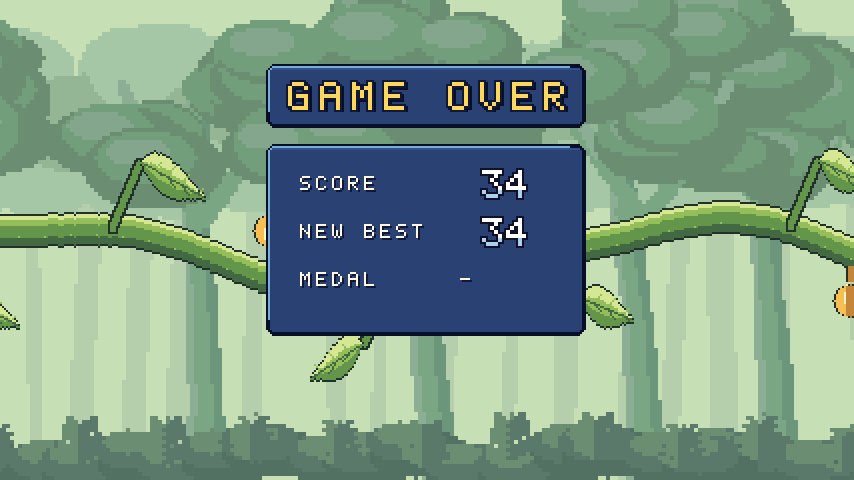
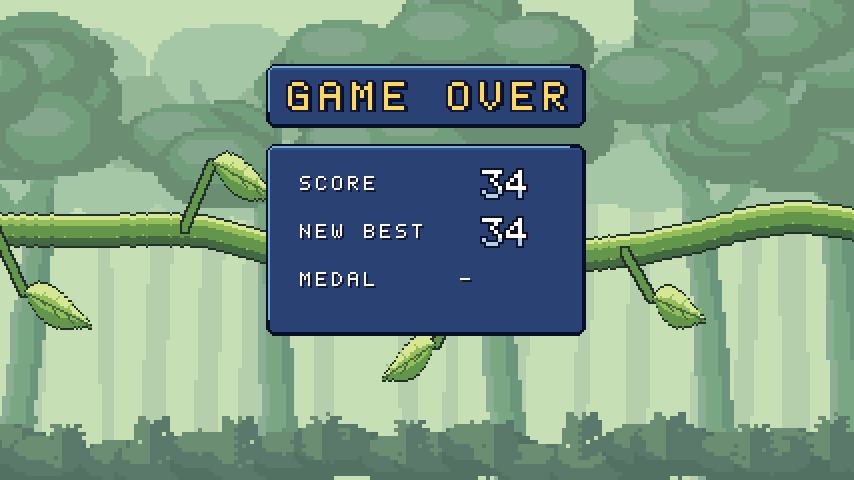
Wide view 1/3 left: snailswitch
The owner's decision: in widescreen the snails sat too far left before a long empty
stretch. A third of the extra width (past 320 columns) is now shown behind them, two
thirds ahead: the stage origin is WIDE_LEFT(width - 320) (game.h: 36 at 427, 67 at 520,
80 at 560, 0 at 320), so the snails race that much further right; the UI stays centred
(hu_ui_x follows the origin).
- The vine behind them is drawn: the foreground canvas starts at the screen's real left
  edge (its camera the scroll less the origin): the passed leaves, hazards and fruits,
  and the vine behind the starting line on the title; the misty forest follows.
- The world, the course, the physics, the scoring and the start distance are unchanged:
  the logs at 320, 427 and 520 are identical to before; 320 is byte-identical (300
  dense pictures, 4 logs and the 320 UI screens compared).
- tests/test_scenery.c: the third (36, 67, 80 px) and no empty column behind the start;
  tests/wide_test.sh: the view check (--opt view=1) asserts the third on the left, the
  snails' screen x (that of 320 plus the third) and the next hazard's distance on the
  screen (that of 320) at 427, 520 and 560, on the title, at the start, in a run and
  with 4 snails.
- Screenshots at 427 and 520 re-rendered; DESIGN.md says so.

diff --git a/games/snailswitch/src/draw.c b/games/snailswitch/src/draw.c
@@ -29,6 +29,8 @@ void draw_init(void){
  hu_config cfg=hu_defaults();cfg.obj_tile=KIT_OBJ_TILE;cfg.obj_vram=VR_OBJ;cfg.obj_pal=3;hu_init(&cfg);
  rs_tiles_load(VR_BG3,gm_bg3_tiles,gm_bg3_tile_count);
  rs_pal_load(RS_PAL_BG(PAL_HILLS),gm_hills_pal,16);
+ /* widescreen: a third of the extra width behind the snails (game.h WIDE_LEFT): the stage origin; 0 at 320 */
+ rs_screen_origin(WIDE_LEFT(rs_screen_width()-RS_SCREEN_W));
  maps_setup();
  static const rs_color pal[16]={0,RS_HEX(0x23352f),RS_HEX(0x466947),RS_HEX(0x619248),
  RS_HEX(0x94bd59),RS_HEX(0xd5e594),RS_HEX(0x573343),RS_HEX(0xa65162),RS_HEX(0xe88189),
@@ -53,7 +55,7 @@ static void line(const canvas*p,int x0,int y0,int x1,int y1,int r,int c){
  int n=abs(x1-x0)>abs(y1-y0)?abs(x1-x0):abs(y1-y0);if(!n)n=1;
  for(int i=0;i<=n;i++)rect(p,x0+(x1-x0)*i/n-r,y0+(y1-y0)*i/n-r,x0+(x1-x0)*i/n+r,y0+(y1-y0)*i/n+r,c);}
 /* Widescreen (DESIGN.md "Widescreen"): the foreground is world content, drawn up to the canvas' right edge (cw
- * columns: the real screen's); the leaves and the hazards are culled against it, so a wider screen simply shows more
+ * columns: the real screen's; draw.c gives it a camera from the screen's real left edge); the leaves and the hazards are culled against it, so a wider screen simply shows more
  * of the same vine. At 320 it is the 4:3 picture, pixel for pixel. */
 void scenery_pixels(const world*w,uint8_t*out,int cw){
  canvas cv={out,cw},*px=&cv;
@@ -138,9 +140,12 @@ void scenery_pixels(const world*w,uint8_t*out,int cw){
  }
 }
 static uint8_t fg_px[RS_SCREEN_W_MAX*240];     /* scratch: redrawn in full each frame (state_audit.txt) */
+/* The foreground is drawn for the screen's columns from its real left edge: the canvas' column 0 is stage x
+ * rs_screen_left() (widescreen: a third of the extra width behind the snails; 0 at 320), the camera scroll + that. */
 static void foreground(const world*w){
  int cols=(rs_screen_width()+7)/8,pw=cols*8;   /* the screen's tile columns: 40 at 4:3, 54 at 427, 65 at 520 */
- scenery_pixels(w,fg_px,pw);
+ world cam=*w;cam.scroll+=rs_screen_left();
+ scenery_pixels(&cam,fg_px,pw);
  int next=1;uint8_t empty[64]={0};rs_tiles_load8(VR_BG2,empty,1);
  for(int r=0;r<30;r++)for(int c=0;c<cols;c++){
   uint8_t tile[64];int ink=0;for(int y=0;y<8;y++)for(int x=0;x<8;x++){tile[y*8+x]=fg_px[(r*8+y)*pw+c*8+x];ink|=tile[y*8+x];}
@@ -150,6 +155,7 @@ static void foreground(const world*w){
 static int player_pal(int p){return p?hu_player_pal(p):0;}
 static void spr(int id,int x,int y,int prio,int pal){
  const gm_sprite_def*d=&gm_spr[id];rs_spr(x,y,d->tile,d->w,d->h,pal<0?d->pal:pal,prio,0);}
+static int p1_drawn_x=-999;   /* tests (draw_view_log): the screen x of P1's sprite centre, as drawn */
 static void draw_heroes(const world*w,int t,int sx,int sy){
  for(int p=0;p<w->players;p++){const hero*h=&w->h[p];if(h->state==HS_OFF)continue;
  int id=h->state==HS_HIT||h->state==HS_DOWN?SPR_HERO_HIT:h->flip?SPR_HERO_SQUASH:SPR_HERO_IDLE+(t/10)%2;
@@ -157,9 +163,11 @@ static void draw_heroes(const world*w,int t,int sx,int sy){
  int flip=h->flip?(h->flip<11?h->side:h->from):h->side;
  int cx=h->x+(h->flip?(curve_sine((22-h->flip)*512/22)*9>>15):0);
  /* The same full-size snail grips each surface; the eye stalks hang below on the underside. */
+ int n=rs_oam_next();
  rs_spr(cx-16+sx,(h->y>>16)-16+sy,d->tile,d->w,d->h,player_pal(p),2,flip?RS_SPR_VFLIP:0);
+ if(p==0)p1_drawn_x=rs_oam_next()>n?rs_oam(n)->x+16+rs_screen_origin_x():-999;
  }}
-/* the kit gives UI coordinates: + hu_ui_x() (the UI is centred on a wide screen, the stage origin is 0) */
+/* the kit gives UI coordinates: + hu_ui_x() (the UI is centred on a wide screen, whatever the stage origin) */
 static void slot_icon(int p,int cx,int cy,int t,void*u){(void)t;(void)u;spr(SPR_HERO_ICON,cx-8+hu_ui_x(),cy-8,2,player_pal(p));}
 static void standing(const world*w,hu_standing*s){int a[4];for(int p=0;p<w->players;p++)a[p]=w->h[p].score;hu_rank(s,w->players,a,a);}
 static void screen_text(const world *w, int state, int st_t, int best, int new_best, const hu_standing *rs)
@@ -200,7 +208,7 @@ static void screen_text(const world *w, int state, int st_t, int best, int new_b
 void draw_frame(const world*w,int state,int st_t,int best,int new_best,int paused){
  static const int medals[4]=MEDAL_SCORES;
  int sx=hu_shake_x(),sy=hu_shake_y();hu_standing rank;standing(w,&rank);
- foreground(w);rs_bg_scroll(RS_BG2,-sx,-sy);rs_bg_scroll(RS_BG3,w->scroll/4,0);
+ foreground(w);rs_bg_scroll(RS_BG2,rs_screen_origin_x()-sx,-sy);   /* the canvas from the screen's left edge */rs_bg_scroll(RS_BG3,w->scroll/4,0);
  screen_text(w,state,st_t,best,new_best,&rank);
  int slide=state==ST_OVER?hu_slide_in(st_t,20,200):0;
  rs_bg_scroll(RS_BG1,-hu_ui_x(),-slide);       /* the UI centred on the screen (widescreen) */
@@ -213,6 +221,15 @@ void draw_frame(const world*w,int state,int st_t,int best,int new_best,int pause
  if(w->players==1)hu_gameover_sprites(1,w->h[0].score,0,best,hu_medal_of(w->h[0].score,medals),st_t,slide);
  else{hu_results_sprites(&rank,st_t,slide);for(int i=0;i<rank.n;i++){int x,y;hu_results_icon_pos(&rank,i,&x,&y);spr(SPR_HERO_ICON,x-8+hu_ui_x(),y-8+slide,3,player_pal(rank.order[i]));}}
  }}
+/* Tests (--opt view=1, main.c at exit): the view of the last frame, "view: width=W left=L p1_x=X next_x=N": L the columns
+ * shown behind the snails (the stage origin), X the screen x of P1's sprite centre as drawn, N the screen x of the next
+ * hazard ahead of P1 (its anchor; tests/wide_test.sh: X and N - X against 320) */
+void draw_view_log(const world*w){
+ int hx=w->scroll+w->h[0].x,id=0;obstacle o;
+ do obstacle_at(w,id++,&o); while(o.anchor<=hx && id<1000);
+ rs_log("view: width=%d left=%d p1_x=%d next_x=%d",rs_screen_width(),rs_screen_origin_x(),p1_drawn_x,
+        o.anchor-w->scroll+rs_screen_origin_x());
+}
 #define S(v) rs_state_var("draw." #v,&(v),sizeof(v))
 void draw_state(void){S(line_col);S(shown_state);S(shown_best);RS_STATE_RASTER(raster);}
 #undef S

diff --git a/games/snailswitch/src/game.h b/games/snailswitch/src/game.h
@@ -10,6 +10,12 @@
 #define HIT_FREEZE 8
 #define BOT_START 20
 #define MEDAL_SCORES {100,250,500,1000}
+/* Widescreen (DESIGN.md "Widescreen"): the share of the extra width (the columns past 320) shown BEHIND the snails, on
+ * the left: one third (the owner's decision), the other two thirds ahead. The stage origin is WIDE_LEFT(width - 320):
+ * 36 px at 427, 67 at 520, 80 at 560, 0 at 320 (rounded). */
+#define WIDE_LEFT_NUM 1
+#define WIDE_LEFT_DEN 3
+#define WIDE_LEFT(extra) (((extra)*WIDE_LEFT_NUM*2+WIDE_LEFT_DEN)/(2*WIDE_LEFT_DEN))
 enum hero_state {HS_READY,HS_RUN,HS_HIT,HS_DOWN,HS_OFF};
 typedef struct hero {int state,t,x,score,next_block,side,flip,from,berry,target;int32_t y,vy;int air_t,land_t;} hero;
 typedef struct world {int scroll;int64_t travel;hero h[4];int players,t,started;uint32_t seed;int events[4];} world;
@@ -33,5 +39,6 @@ void draw_init(void);
 void draw_frame(const world*,int,int,int,int,int);
 void draw_state(void);
 void draw_state_loaded(void);   /* widescreen: a state saved at another width */
+void draw_view_log(const world*);   /* tests (--opt view=1): the view at exit, "view: width= left= p1_x= next_x=" */
 #endif
 

diff --git a/games/snailswitch/tests/test_scenery.c b/games/snailswitch/tests/test_scenery.c
@@ -64,5 +64,17 @@ int main(void){
   assert(a.scroll==0&&d>=334&&d<=394);
  }
  puts("The first hazard 334..394 px ahead of the snails at the start of a run, at every width: passed");
+ /* Widescreen: a third of the extra width is shown BEHIND the snails, on the left (draw.c draws the foreground from
+  * scroll - WIDE_LEFT(width - 320), the stage origin): behind the start of a run the vine goes on, no empty column. */
+ static const int real[]={427,520,560};
+ for(int k=0;k<3;k++){
+  int cw=(real[k]+7)/8*8,left=WIDE_LEFT(real[k]-RS_SCREEN_W);
+  assert(left==(real[k]==427?36:real[k]==520?67:80));
+  for(uint32_t s=1;s<=20;s++){
+   world a;world_init(&a,1,s);a.scroll=-left;scenery_pixels(&a,after,cw);
+   for(int x=0;x<left;x++){int ink=0;for(int y=0;y<240;y++)ink|=after[y*cw+x];assert(ink);}
+  }
+ }
+ puts("Widescreen: a third of the extra width on the left (36, 67, 80 px), the vine drawn behind the start: passed");
  return 0;
 }

diff --git a/games/snailswitch/src/main.c b/games/snailswitch/src/main.c
@@ -12,6 +12,7 @@
  *   seed=N         a fixed course (default: from the frame of the first press)
  *   players=N      start with N players joined (1..4);  ready=1  skip the title (the run waits for a press)
  *   dump=1         log the final state at exit (tests); music=0, sound=0
+ *   view=1         log the view at exit (tests/wide_test.sh: widescreen, a third of the extra width behind)
  */
 #include "game.h"
 #include "assets.h"
@@ -264,6 +265,7 @@ static void game_init(void)
 
 static void game_shutdown(void)
 {
+    if (rs_option_int("view", 0)) draw_view_log(&W);      /* tests/wide_test.sh: the view (widescreen) */
     if (!rs_option_int("dump", 0)) return;
     char sc[48] = "", hs[48] = "";
     for (int p = 0; p < W.players; p++) {

diff --git a/games/snailswitch/DESIGN.md b/games/snailswitch/DESIGN.md
@@ -15,4 +15,4 @@ Best scores use versioned checksummed battery RAM. Mutable game/drawing/audio/lo
 Validation: full libretro, keyboard/lobby/pause/retry/SRAM, deterministic screenshot, UI, save-state and static audit checks. Physics tests replay sixteen five-minute four-player courses with ordinary Up/Down decisions, require survival to the capped speed, compare every world frame and verify frozen starts, continuous flips and failure events.
 
 ## Widescreen
-Snail Switch is a side-scroller: it opts in (`max_width` = 560, `WIDESCREEN_snailswitch = 1`) and a wider screen simply reveals more of the vine ahead. 320 (4:3) is unchanged pixel for pixel. The stage origin stays 0: the snails race where they did (x 116, the others 27 px behind) and the screen shows further to the right. The world is width-independent: the vine, its leaves, the hazards and their fruits are placed in one world coordinate from the seed (per hazard), and the rules never look at the width, so the same inputs give the same game, bots included, at 320, 427, 520 and 560. The start of a run is the same at every width: the first hazard sits 334..394 px ahead of the snails, just past a 4:3 screen's edge and already in view from the first frame on a wider one (no longer run-up on a wide screen; test_scenery.c asserts it). Seeing further ahead makes it a little easier; that is accepted, not compensated. The foreground is drawn every frame for the screen's tile columns (its hazards and leaves culled at the real right edge, at most 351 runtime tiles at 560, within its 512-tile range). The misty forest is 512 px wide: up to 512 columns its 64-tile map never shows twice; beyond, its map is 128 tiles with the second half the first one mirrored (the same tiles h-flipped: no VRAM, seamless joins). The UI layer is scrolled by -hu_ui_x(), so the title, panels, results and pause are centred, and the slot and results icons add hu_ui_x(); the score chips go to the screen's centre (1 player), halves (2) or corners (3-4, with their tags; the UI map is 128 tiles beyond 512 columns). Multiplayer shares the one wider screen, the snails where they were. A state saved at one width loads at another (`state_loaded` sets the maps up again). Tests: tests/test_scenery.c checks the foreground at 320/432/520/560 (no pop-in, the 4:3 picture extended, the tile budget); `make snailswitch-check` runs the libretro, smoke, UI and state tests again at 427 and 520, then tests/wide_test.sh (picture widths, strict mode, the same log at every width, live resizes, states across widths).
+Snail Switch is a side-scroller: it opts in (`max_width` = 560, `WIDESCREEN_snailswitch = 1`) and a wider screen simply reveals more of the vine: a third of the extra width behind the snails, two thirds ahead. 320 (4:3) is unchanged pixel for pixel. The owner's decision: with all of the extra width ahead the snails sat too far left before a long empty stretch. The stage origin is `WIDE_LEFT(width - 320)` (game.h: 36 px at 427, 67 at 520, 80 at 560, 0 at 320): the snails race that much further right on the screen (x 116 + the origin, the others 27 px behind) and the screen shows the rest further ahead. Behind them the vine is drawn like the rest (the foreground canvas starts at the screen's real left edge, its camera the scroll less the origin): the passed leaves, hazards and fruits, and before the start (the title too) the vine behind the starting line. The world is width-independent: the vine, its leaves, the hazards and their fruits are placed in one world coordinate from the seed (per hazard), and the rules never look at the width, so the same inputs give the same game, bots included, at 320, 427, 520 and 560. The start of a run is the same at every width: the first hazard sits 334..394 px ahead of the snails, just past a 4:3 screen's edge and already in view from the first frame on a wider one (no longer run-up on a wide screen; test_scenery.c asserts it). Seeing further ahead makes it a little easier; that is accepted, not compensated. The foreground is drawn every frame for the screen's tile columns (its hazards and leaves culled at the real right edge, at most 351 runtime tiles at 560, within its 512-tile range). The misty forest is 512 px wide: up to 512 columns its 64-tile map never shows twice; beyond, its map is 128 tiles with the second half the first one mirrored (the same tiles h-flipped: no VRAM, seamless joins). The UI layer is scrolled by -hu_ui_x(), so the title, panels, results and pause are centred, and the slot and results icons add hu_ui_x(); the score chips go to the screen's centre (1 player), halves (2) or corners (3-4, with their tags; the UI map is 128 tiles beyond 512 columns). Multiplayer shares the one wider screen, the snails where they were. A state saved at one width loads at another (`state_loaded` sets the maps up again). Tests: tests/test_scenery.c checks the foreground at 320/432/520/560 (no pop-in, the 4:3 picture extended, the tile budget, the vine behind the start in the third on the left); `make snailswitch-check` runs the libretro, smoke, UI and state tests again at 427 and 520, then tests/wide_test.sh (picture widths, strict mode, the same log at every width, the view: the third on the left, P1's screen x, that of 320 plus the third, and the next hazard's distance on the screen, that of 320, from `--opt view=1`; live resizes, states across widths).
